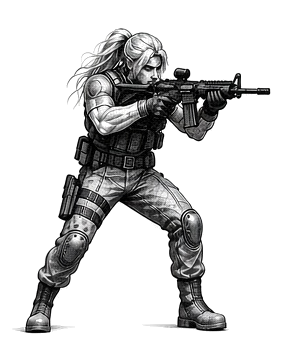
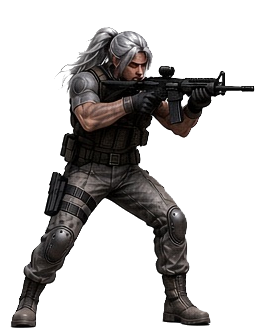
Replace ALEXANDRE sprites with new colored transparent-PNG sheet
- Cropped each of the 15 cells from the attached RGBA sheet to its own
  connected alpha region (character + weapon + hair + muzzle flash);
  original alpha values are copied through untouched, no re-compositing
  or background processing since the source was already transparent
- Verified per-frame (not assumed) that every column in this sheet is
  drawn facing right for all three poses; only left/leftdiag need a
  canvas-side horizontal flip to face left, right/rightdiag are used as
  supplied, front is never flipped
- Re-aligned all 15 frames on a shared canvas by foot baseline and body
  center of mass, at the same content-to-canvas ratio as the previous
  asset set, so on-screen character size is unchanged
- SPRITE_DRAW_H left at 116 (unchanged); movement speed, stick behavior,
  bullet speed, fire interval, and the facingAngle bucket logic are
  untouched

Changed region(s): [[0.0294, 0.0595, 0.9412, 0.9821]]

diff --git a/game.js b/game.js
@@ -54,18 +54,19 @@
   }
   resetPlayerPosition();
 
-  const SPRITE_DRAW_H = 116; // on-screen character height in px (was 140, x0.83)
-  let spriteAspect = 304 / 344;
+  const SPRITE_DRAW_H = 116; // on-screen character height in px (unchanged from previous asset set)
+  let spriteAspect = 272 / 336;
 
-  // The source reference sheet only mirrors the pure "left" column for the
-  // IDLE pose; every other left-facing column (idle_leftdiag, and all of
-  // aim/fire's left + leftdiag) is actually drawn facing right in the PNG
-  // itself. For those keys we flip the canvas draw instead of the asset.
-  const FLIP_FOR_LEFT = new Set(['idle_leftdiag', 'aim_left', 'aim_leftdiag', 'fire_left', 'fire_leftdiag']);
+  // In this reference sheet every column (left/leftdiag/front/rightdiag/right)
+  // is drawn facing right for all three poses (idle/aim/fire) — checked per
+  // frame, not assumed; none of them mirror by column. So the "left" and
+  // "leftdiag" frames are the ones that need a canvas-side flip to face left;
+  // "right"/"rightdiag" already match and "front" is never flipped.
+  const FLIP_KEYS = new Set(['idle_left', 'idle_leftdiag', 'aim_left', 'aim_leftdiag', 'fire_left', 'fire_leftdiag']);
   // Fraction (0-1) of the sprite canvas width where each frame's own anchor
   // (body center of mass) sits — matches the alignment baked into the PNGs,
   // so flipping about this line keeps the character from jumping sideways.
-  const SPRITE_ANCHOR_X_FRAC = 0.44167717269913337;
+  const SPRITE_ANCHOR_X_FRAC = 0.43799337449244424;
 
   // ---------- Direction bucket mapping ----------
   // angle: 0 = right, positive = clockwise (down), using atan2(dy, dx) with screen dy-down positive
@@ -318,7 +319,7 @@
       const drawW = drawH * spriteAspect;
       const drawX = player.x - drawW / 2;
       const drawY = player.y - drawH / 2;
-      const flip = (dir === 'left' || dir === 'leftdiag') && FLIP_FOR_LEFT.has(`${pose}_${dir}`);
+      const flip = dir !== 'front' && FLIP_KEYS.has(`${pose}_${dir}`);
       if (flip) {
         const anchorScreenX = drawX + drawW * SPRITE_ANCHOR_X_FRAC;
         ctx.save();
